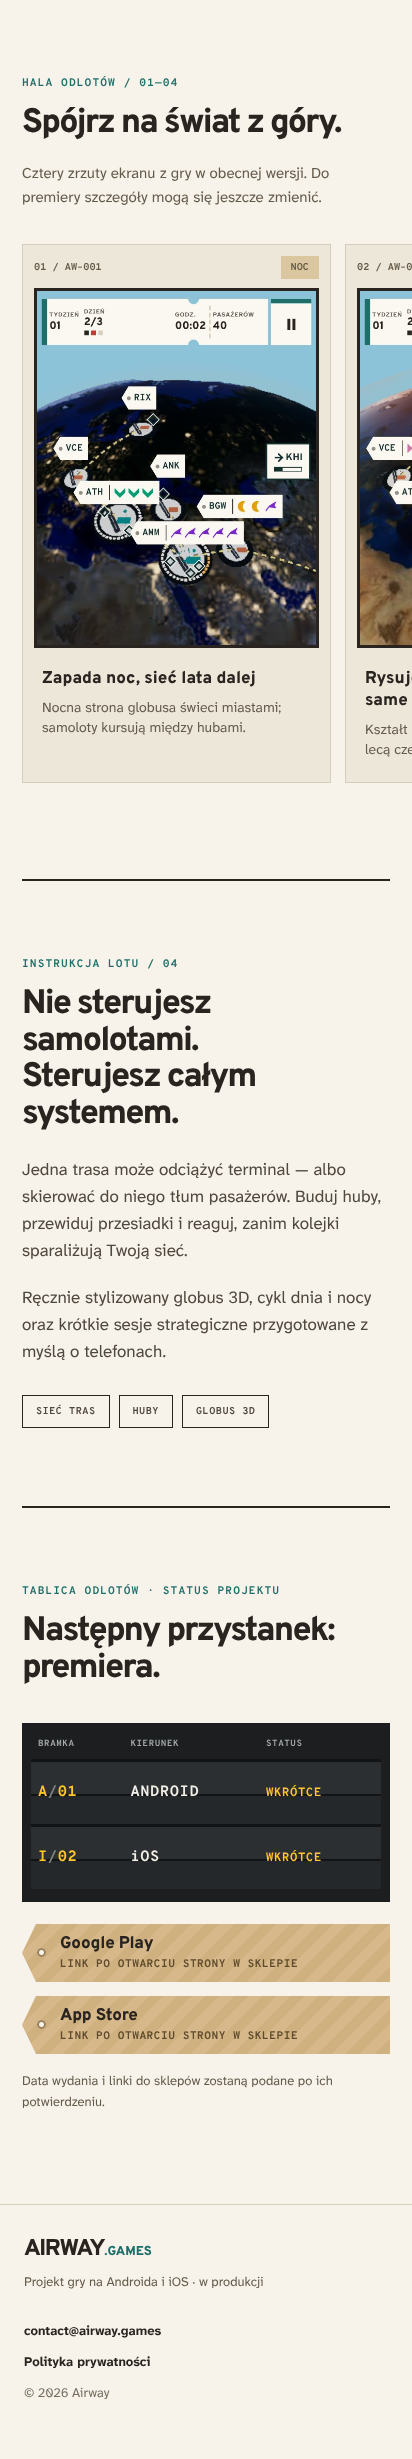
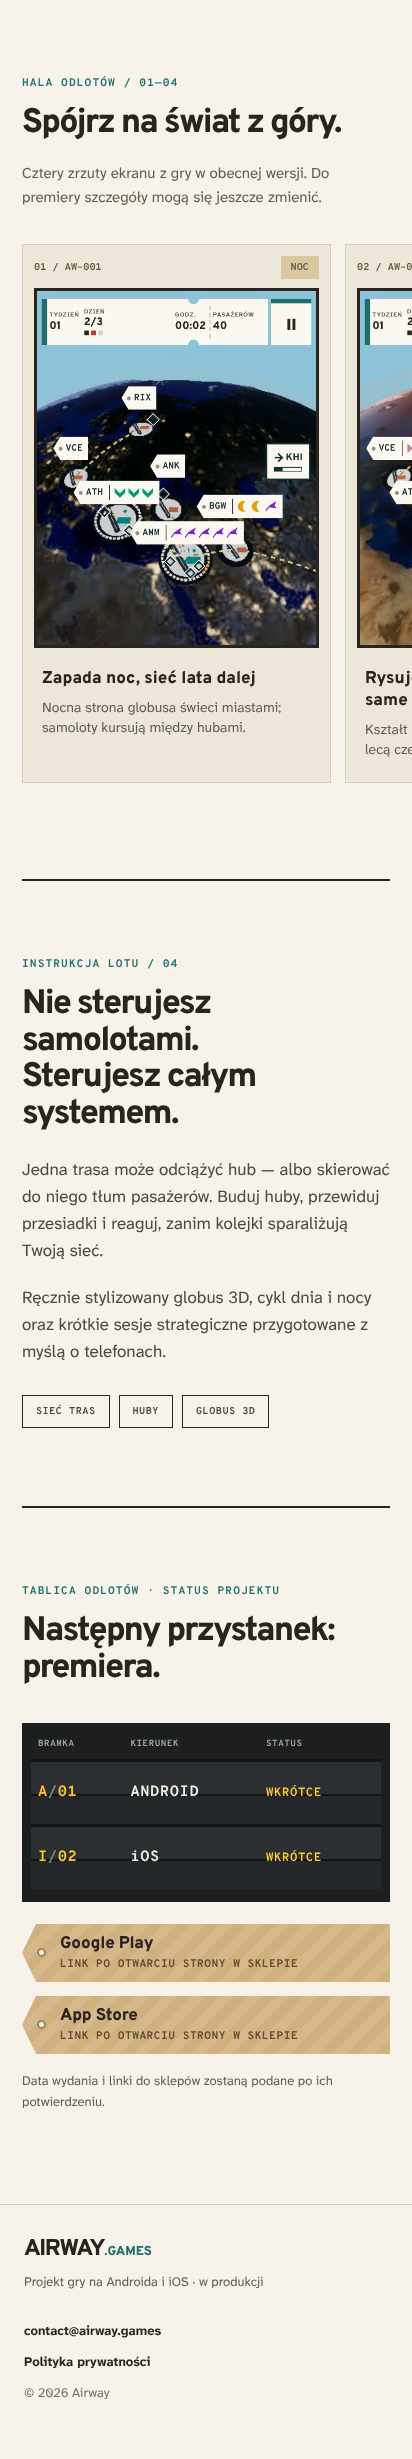
N11ad: finish site launch pack (R7k, D-218)
- package.json: site:assets script (site/make-assets.mjs); test:site checks it.
- site copy follows the D-195 glossary: about.p1 says "hub", not "terminal";
  test:site fails on "terminal" anywhere in site copy or pages.
- WIP comments renumbered D-214 -> D-218 (D-214 is reserved for N12aj).
- docs: SITE.md launch-pack section, ASSETS.md site shots/og-image/badges,
  TESTING.md (test:site, shots:site captured=6, build:site files=8,
  site:assets), DECISIONS.md D-218, backlog R7k [x] + log line.
- shots: docs/shots/29/site-preview-{p,l}.png refreshed.

Claude-Session: https://claude.ai/code/session_01Xqzfc4e5N2tWm4N2npoph3

Changed region(s): [[0.5243, 0.4636, 0.932, 0.5254], [0.1165, 0.4636, 0.4369, 0.5254], [0.0583, 0.4636, 0.0874, 0.5254]]

diff --git a/site/index.html b/site/index.html
@@ -74,7 +74,7 @@
       </div>
     </section>
 
-    <section id="about" class="about-section" aria-labelledby="about-title"><div class="about-label"><span class="section-overline" data-i18n="about.overline">INSTRUKCJA LOTU / 04</span><h2 id="about-title" data-i18n="about.title">Nie sterujesz samolotami.<br>Sterujesz całym systemem.</h2></div><div class="about-copy"><p data-i18n="about.p1">Jedna trasa może odciążyć terminal — albo skierować do niego tłum pasażerów. Buduj huby, przewiduj przesiadki i reaguj, zanim kolejki sparaliżują Twoją sieć.</p><p data-i18n="about.p2">Ręcznie stylizowany globus 3D, cykl dnia i nocy oraz krótkie sesje strategiczne przygotowane z myślą o telefonach.</p><div class="tag-row"><span data-i18n="about.tag1">SIEĆ TRAS</span><span data-i18n="about.tag2">HUBY</span><span data-i18n="about.tag3">GLOBUS 3D</span></div></div></section>
+    <section id="about" class="about-section" aria-labelledby="about-title"><div class="about-label"><span class="section-overline" data-i18n="about.overline">INSTRUKCJA LOTU / 04</span><h2 id="about-title" data-i18n="about.title">Nie sterujesz samolotami.<br>Sterujesz całym systemem.</h2></div><div class="about-copy"><p data-i18n="about.p1">Jedna trasa może odciążyć hub — albo skierować do niego tłum pasażerów. Buduj huby, przewiduj przesiadki i reaguj, zanim kolejki sparaliżują Twoją sieć.</p><p data-i18n="about.p2">Ręcznie stylizowany globus 3D, cykl dnia i nocy oraz krótkie sesje strategiczne przygotowane z myślą o telefonach.</p><div class="tag-row"><span data-i18n="about.tag1">SIEĆ TRAS</span><span data-i18n="about.tag2">HUBY</span><span data-i18n="about.tag3">GLOBUS 3D</span></div></div></section>
 
     <section class="departure-section" aria-labelledby="departure-title"><div class="departure-heading"><span class="section-overline" data-i18n="departures.overline">TABLICA ODLOTÓW · STATUS PROJEKTU</span><h2 id="departure-title" data-i18n="departures.title">Następny przystanek: premiera.</h2></div><div class="departure-board" role="table" aria-label="Platforms and release status" data-i18n-aria="departures.table"><div class="board-head" role="row"><span role="columnheader" data-i18n="departures.platform">PLATFORMA</span><span role="columnheader" data-i18n="departures.destination">KIERUNEK</span><span role="columnheader" data-i18n="departures.status">STATUS</span></div><div class="board-row" role="row"><span class="flap-letters" role="cell">A<span class="flap-divider">/</span>01</span><span role="cell">ANDROID</span><span role="cell" class="board-status" data-i18n="departures.soon">WKRÓTCE</span></div><div class="board-row" role="row"><span class="flap-letters" role="cell">I<span class="flap-divider">/</span>02</span><span role="cell">iOS</span><span role="cell" class="board-status" data-i18n="departures.soon">WKRÓTCE</span></div></div><div class="store-tags" role="group" aria-label="Sklepy z aplikacjami" data-i18n-aria="stores.label"><span class="store-tag" data-store="googlePlay" aria-disabled="true"><span class="store-tag-name">Google Play</span><span class="store-tag-state" data-i18n="stores.pending">Link po otwarciu strony w sklepie</span></span><span class="store-tag" data-store="appStore" aria-disabled="true"><span class="store-tag-name">App Store</span><span class="store-tag-state" data-i18n="stores.pending">Link po otwarciu strony w sklepie</span></span></div><p class="departure-note" data-i18n="departures.note">Data wydania i linki do sklepów zostaną podane po ich potwierdzeniu.</p></section>
   </main>

diff --git a/site/i18n.js b/site/i18n.js
@@ -20,7 +20,7 @@ export const translations = {
     'preview.description': "Cztery zrzuty ekranu z gry w obecnej wersji. Do premiery szczegóły mogą się jeszcze zmienić.",
     'about.overline': 'INSTRUKCJA LOTU / 04',
     'about.title': 'Nie sterujesz samolotami.\nSterujesz całym systemem.',
-    'about.p1': 'Jedna trasa może odciążyć terminal — albo skierować do niego tłum pasażerów. Buduj huby, przewiduj przesiadki i reaguj, zanim kolejki sparaliżują Twoją sieć.',
+    'about.p1': 'Jedna trasa może odciążyć hub — albo skierować do niego tłum pasażerów. Buduj huby, przewiduj przesiadki i reaguj, zanim kolejki sparaliżują Twoją sieć.',
     'about.p2': 'Ręcznie stylizowany globus 3D, cykl dnia i nocy oraz krótkie sesje strategiczne przygotowane z myślą o telefonach.',
     'about.tag1': 'SIEĆ TRAS', 'about.tag2': 'HUBY', 'about.tag3': 'GLOBUS 3D',
     'departures.overline': 'TABLICA ODLOTÓW · STATUS PROJEKTU',
@@ -96,7 +96,7 @@ export const translations = {
     'preview.description': "Four screenshots from the game as it is today. Details may still change before launch.",
     'about.overline': 'FLIGHT MANUAL / 04',
     'about.title': 'You do not fly the planes.\nYou manage the entire network.',
-    'about.p1': 'One new route can ease a terminal — or send a crowd of passengers its way. Build hubs, anticipate transfers and act before queues bring your network to a halt.',
+    'about.p1': 'One new route can ease a hub — or send a crowd of passengers its way. Build hubs, anticipate transfers and act before queues bring your network to a halt.',
     'about.p2': 'An illustrated 3D globe, a day-night cycle and short strategic sessions designed around mobile play.',
     'about.tag1': 'AIR ROUTES', 'about.tag2': 'TRANSFER HUBS', 'about.tag3': '3D GLOBE',
     'departures.overline': 'DEPARTURE BOARD · PROJECT STATUS',

diff --git a/site/styles.css b/site/styles.css
@@ -19,7 +19,7 @@
 @media(min-width:750px) and (max-height:480px){.hero{min-height:460px}.hero-copy{padding-top:30px}.hero-visual{min-height:460px}.eyebrow{margin-bottom:19px}.hero-headline{margin:23px 0 10px;font-size:37px}.hero-lead{font-size:14px;line-height:1.46}.hero-actions{margin-top:17px}.globe-stamp{bottom:39px}.hero-footnote{margin-top:9px}}
 @media(prefers-reduced-motion:reduce){html{scroll-behavior:auto}.shot-frame img{transition:none}}
 
-/* [night-11ad] R7k, D-214: store tags (luggage tags, disabled until site/launch.js has a store URL), 404 page. */
+/* [night-11ad] R7k, D-218: store tags (luggage tags, disabled until site/launch.js has a store URL), 404 page. */
 .store-tags{display:flex;flex-wrap:wrap;gap:14px;margin-top:22px}
 .store-tag{position:relative;display:flex;flex-direction:column;justify-content:center;gap:3px;min-height:58px;min-width:200px;padding:9px 18px 9px 38px;background:var(--kraft);color:var(--ink);text-decoration:none;clip-path:polygon(14px 0,100% 0,100% 100%,14px 100%,0 50%)}
 .store-tag::before{content:'';position:absolute;left:15px;top:50%;width:9px;height:9px;margin-top:-4.5px;border-radius:50%;background:var(--paper);box-shadow:inset 0 0 0 2px #9c7f55}

diff --git a/site/site.js b/site/site.js
@@ -34,7 +34,7 @@ for (const element of document.querySelectorAll('[data-nav-lang]')) {
 for (const element of document.querySelectorAll('[data-language]')) {
   element.setAttribute('aria-current', element.dataset.language === lang ? 'true' : 'false');
 }
-// [night-11ad] R7k, D-214: real screenshots in the page's language; store tags become links only once configured.
+// [night-11ad] R7k, D-218: real screenshots in the page's language; store tags become links only once configured.
 for (const image of document.querySelectorAll('img[data-shot]')) {
   image.src = `assets/shots/${lang}/${image.dataset.shot}.jpg`;
 }

diff --git a/site/launch.js b/site/launch.js
@@ -1,4 +1,4 @@
-// [night-11ad] R7k, D-214: launch settings of the static site, in one place. Every store link stays empty until the
+// [night-11ad] R7k, D-218: launch settings of the static site, in one place. Every store link stays empty until the
 // store page exists: an empty link shows a disabled "coming soon" tag, never a guess. Filling one requires the
 // official badge artwork for that store in assets/badges/ (Apple and Google brand rules; test:site enforces it).
 export const LAUNCH = {

diff --git a/docs/TESTING.md b/docs/TESTING.md
@@ -94,7 +94,7 @@ Times are measured in the integration container (8 vCPU, SwiftShader); “ci” 
 | `npm run test:install-identity` | fast | <1 s | A restored phone (no install marker) drops the leaderboard token and queue, keeps logbook/settings; marker failures never reset (D-92) | `… cases=6 passed=6 failed=0` |
 | `npm run test:ios-config` | fast | <1 s | iOS orientations, permissions, store keys (export compliance, bundle localizations = i18n catalogs, D-91), bundle ID, CocoaPods, audio session, safe-area tokens, PNG sizes (D-36) | `… checks=23 passed=23 failed=0` |
 | `npm run test:store-shots` | fast | ~3 s | PL/EN store copy limits, D-18 titles ([night-12ae] D-203 PL "sieć", no "siatka"), no competitor names; [task-36] the committed PNGs (30, [N12o] 60): size, not blank/white, manifest without dev text, glyphs only D-08, contact sheet; [task-40] manifest in D-63 store order (night, game, upgrade, failure, menu), `game` globe golden-pixel share ≥ 0.045, routes/airports/planes contrast ≥ 4.5:1 in `game` and `night`. `--validate --out=<dir>` checks a fresh run outside the repo; [N12n] D-117 Play feature graphic `docs/store/feature-graphic.png`: exactly 1024×500, 8-bit RGB without alpha, ≤ 15 MB, middle third not empty, dark unsaturated share ≤ 0.2, plus the PL/EN alt text (≤ 140 chars, no "image of", no price words) ; [N12o] D-123: six device profiles — the Apple iPhone 6.9" (1320×2868) and iPad 13" (2064×2752) profiles have an exact App Store Connect size, Play has a 9:16 and a 16:9 profile with a short side ≥ 1080 px and every Play size within 320–3840 px / 2:1, and every shot is RGB without alpha (fails on the old 30-shot set: "Manifest lists 30/60") | `… listings=2 fields=14 scenes=5 devices=6 shots=60 feature=1 passed=1 failed=0` |
-| `npm run test:site` | fast | <1 s | Landing page: local links, preview alt texts, PL/EN parity, privacy page, no trackers | `… assertions=N passed=N failed=0` |
+| `npm run test:site` | fast | <1 s | Landing page: local links, preview alt texts, PL/EN parity, privacy page, no trackers; launch pack (D-218): real 540×960 shots fresh vs `docs/store/shots/`, store links only on store hosts and with badges, og:image, canonical/hreflang, 404 page, glossary "hub" | `… assertions=N passed=N failed=0` |
 | `npm run test:format` | fast | 1 s | [task-37] D-61 number format: PL 999 / 2 500 / 11 000 / 1 234 567 (four-digit groups, same no-break space as Intl), EN unchanged, `t()` formats numeric params; [N7j] plural forms PL one/few/many (1, 2–4, 5–21, 22…) and EN, in real catalog strings; [N12s] R7e plural form from the number read with the locale's own separators (fake de/pt-BR/es/fr catalogs, 0 / 1 / 2 / 1 000 / 1 500 / 1 000 000), R7g fr-FR groups with U+00A0, never U+202F | `SUMMARY test:format seed=0xA1A1 passed=16 failed=0` |
 | `npm run test:glyphs` | fast | 1 s | [N12s] R7g, D-146: every face in `src/ui/fonts.css` (TTF `cmap` + borrowed `unicode-range` glyphs) has every code point of the PL/EN catalogs, city/region names, numbers formatted for pl/en/de/fr/es/pt-BR, and the PL/EN/DE/FR/ES/PT-BR letter set | `SUMMARY test:glyphs seed=0xA1A1 faces=5 passed=12 failed=0` |
 | `npm run test:haptics` | fast | <1 s | [night-10f] Fake native driver: route snap = selection tick, route commit / accepted aircraft drop / weekly pick = light impact, refused commands silent, network closed = one heavy impact, jam edge-triggered, the "Haptic feedback" switch silences all, a throwing driver never breaks the caller; [night-12r] D-137 (R6d): snaps tick inside `selectionStart`…`selectionEnd`, a snap outside a drag brackets itself, the switch turned off mid-drag still closes the selection, and under a model of `@capacitor/haptics` 8.0.2 (tick only while started) every snap vibrates (4/9 on the old driver) | `SUMMARY test:haptics seed=0xA1A1 passed=9 failed=0` |
@@ -177,7 +177,7 @@ Times are measured in the integration container (8 vCPU, SwiftShader); “ci” 
 | `npm run perf:scene` / `test:perf-scene` | ci | 2.5 min | SwiftShader scene: 40 cities, 100 planes, 40 routes, 120 wall s at 4×; JSON in `.perf/scene.json` (D-33) | `SUMMARY perf:scene … frames=N samples=N failed=0` |
 | `npm run perf:overlay` | manual | ~15 s | [night-10u] Real airport tag overlay (`src/ui/overlay.ts`) with 40 airports on the Vite dev server: mean ms per frame of `update()` + forced style/layout at 0, 5 and 40 passenger-tag changes per frame (orientation only, host CPU); fails when a tag rebuilt by reusing glyph nodes differs from a fresh build (fails 40/40 with the stale-child removal off) | `SUMMARY perf:overlay seed=0xA1A1 airports=40 idleMs=… fiveMs=… allMs=… mismatched=0 failed=0` |
 | `npm run shots` | ci | 1–2 min | All app/dev-page screenshots (see below) | `SUMMARY shots … expected=N captured=N failed=0` |
-| `npm run shots:site` | ci | 6 s | `build:site`, then landing page at 412×915 / 915×412 → `docs/shots/29/` | `SUMMARY shots:site … captured=2 failed=0` |
+| `npm run shots:site` | ci | 6 s | `build:site`, then landing page at 412×915 / 915×412, 404 page and screenshot/store section (412×915 / 1280×800) → `docs/shots/29/` | `SUMMARY shots:site … captured=6 failed=0` |
 | `npm run store:feature` | manual | ~40 s | [N12n] D-117 Play feature graphic from the real `game` scene (seed 0xA1A1, 1024×500 @2 → @1, HUD hidden, wordmark on the left third) → `docs/store/feature-graphic.png` (opaque RGB); same checks as `test:store-shots`. Not byte-identical between runs (SwiftShader) | `SUMMARY store:feature seed=0xA1A1 captured=1 passed=1 failed=0` |
 | `npm run store:shots` | ci | ~30 min | 5 autoplayed scenes × PL/EN × phone/foldable/tablet/[N12o] iphone/ipad/landscape → `docs/store/shots/{pl,en}/` + `manifest.json` + `docs/store/contact-sheet.png`; every PNG checked (incl. [task-40] sun angle, contrast and warmth recorded in the manifest), published only when all 60 pass | `… expected=60 captured=60 checked=60 passed=1 failed=0` |
 | `npm run test:ci` | — | 6–8 min | `test:fast`, `build` and every “ci” row | `SUMMARY test:ci … failed=0` |
@@ -185,7 +185,8 @@ Times are measured in the integration container (8 vCPU, SwiftShader); “ci” 
 | `npm run build:land` | — | <1 s | Regenerate `public/data/land-50m.json` (D-21) | `SUMMARY build-land … failed=0` |
 | `npm run build:puzzles` | — | <1 s | [ext-01] Regenerate `src/data/puzzles/levels.generated.ts` from the `NN.json` files (`--check` compares, `--dir` another folder); also run by `prebuild` and `predev` | `wrote levels.generated.ts: 30 levels (01–30)` |
 | `npm run puzzle:report` | — | ~3 s | [ext-01] R6f, D-161: Markdown difficulty table, one row per level from its reference run: time at 1×, goal, cities/offered routes, stock, reference actions (widebodies), mechanics tags, measured slot wait and curfew airports, reference result with stars, margin, ★★/★★★ thresholds; `-- --from 31` for one pack, `-- --json` for data | table + `30 levels, 128760 ticks = 3.58 h at 1x; margin min +17%, lost references: 0` |
-| `npm run build:site` | — | <1 s | Copy the framework-free landing page into ignored `site/dist/` | `SUMMARY build:site … files=6 assetFolders=2 failed=0` |
+| `npm run build:site` | — | <1 s | Copy the framework-free landing page into ignored `site/dist/` (+ `og-image.png` from the feature graphic) | `SUMMARY build:site … files=8 assetFolders=2 failed=0` |
+| `npm run site:assets` | — | 2 s | After `store:shots`: 540×960 JPEG copies of the phone store shots → `site/assets/shots/` + `sources.json` (Playwright from env) | `SUMMARY site:assets shots=8 size=540x960 failed=0` |
 | `npm run balance:report` | — | ~5 s | Real engine: 50 seeded sessions → `docs/balance/game-50.csv`, `game-summary.md` ([night-12ab] with p10/p25/median/p75/p90, loss weeks, losing airport hub/spoke/unserved, spare aircraft, cards offered vs picked, curfew/slot holds, transfer share) | `SUMMARY balance:report … mode=game seeds=50 … failed=0` |
 | `npm run balance:fixture` | — | 1 s | Stand-in: 50 synthetic runs → `docs/balance/fixture-50.csv` | `… mode=fixture seeds=50 … failed=0` |
 | `npm run audio:demo` | — | 1 s | Render a WAV demo of the hub audio scheduler (listening check, no assertion) | WAV path |

diff --git a/docs/SITE.md b/docs/SITE.md
@@ -6,7 +6,7 @@
 
 The standalone, framework-free site lives in `site/`. It is deliberately separate
 from the Capacitor game and does not import `src/` or require a backend. All assets
-are local: approved Diorama concept mockups, hand-drawn SVG, a procedural Canvas 2D
+are local: real game screenshots (from `docs/store/shots/`), hand-drawn SVG, a procedural Canvas 2D
 globe and the project's existing SIL OFL font binaries and license notices. There
 are no scripts, trackers, external resources, forms or runtime requests to third
 parties.
@@ -33,8 +33,9 @@ game's `src/i18n` catalog.
 ## Verification
 
 ```sh
-npm run test:site       # local paths, alt texts, translated keys, privacy links
-npm run build:site      # copy the static site into site/dist
+npm run test:site       # local paths, alt texts, translated keys, privacy links, launch pack
+npm run site:assets     # after store:shots: refresh site/assets/shots/ (Playwright)
+npm run build:site      # copy the static site into site/dist (+ og-image.png)
 npm run shots:site      # builds site/dist first; Playwright must be available
 npm run typecheck
 npm run test:fast
@@ -42,7 +43,9 @@ npm run build            # game build; does NOT deploy the site
 ```
 
 `npm run shots:site` renders `site/dist/index.html` at 412x915 and 915x412 at DPR
-1, writing `docs/shots/29/site-p.png` and `site-l.png`. Review both images for
+1, writing `docs/shots/29/site-p.png` and `site-l.png`, plus the 404 page
+(`site-404-p.png` 412x915, `site-404-l.png` 1280x800) and the screenshot/store
+section (`site-preview-p.png`, `site-preview-l.png`). Review every image for
 typography, visible globe, horizontal overflow and forbidden "template UI".
 Also check 673x841, 904x1000, English copy, keyboard navigation, reduced motion
 and Canvas fallback manually. Without Playwright, the screenshot task reports a
@@ -75,17 +78,17 @@ pauses. Device pixel ratio is capped at 2.
 
 ## Assets and content approval
 
-- The three vertical concept captures are copied **from this repository's own**
-  `mockups/diorama/png/{game-p,upgrade-p,menu-p}.png`. They are illustrative
-  concepts, *not* screenshots of a shipped game. Do not use them in an app store
-  without separately checking store rules and whether the shipped UI matches.
+- The four phone previews (night globe, live game, weekly upgrade, menu) are **real game screenshots**: 540×960 JPEG
+  copies in `site/assets/shots/{pl,en}/` of the store PNGs in `docs/store/shots/<lang>/<scene>-phone.png` (D-218).
+  `site.js` swaps in the visitor's language. The stage-0 concept mockups are no longer used anywhere on the site.
 - The website reuses `public/fonts/` copies of **Overpass**, **Overpass Mono**
   and **Atkinson Hyperlegible Next**. All have SIL OFL licenses copied alongside
   them in `site/fonts/`; see `docs/ASSETS.md`.
 - Confirm `contact@airway.games` exists and receives mail; until then it is a
   **proposed placeholder**.
-- The page calls the release "coming soon" without giving dates or pre-order
-  links; no store availability has been asserted.
+- The page calls the release "coming soon" without giving dates. The two store tags
+  (Google Play, App Store) stay disabled, labelled "link after the store page opens",
+  until `site/launch.js` has a URL on the store's own host; see "Launch pack" below.
 - The privacy document is explicitly a **draft**. Before publishing, confirm
   the data controller's legal identity and address, app telemetry / SDKs,
   offline behavior, retention of support messages and host request logs, cross-
@@ -95,9 +98,29 @@ pauses. Device pixel ratio is capped at 2.
 - The source has no analytics/cookies, but hosting logs and email delivery may
   still process personal data. Update the policy before enabling the public site.
 
+## Launch pack (N11ad / R7k, D-218)
+
+- **One config:** `site/launch.js` holds the public origin (`https://airway.games`), the two store links and the
+  screenshot list. Store links are empty today. `storeLink()` accepts only `https://play.google.com/…` and
+  `https://apps.apple.com/…`; anything else keeps the tag disabled. Filling a link also requires the official badge
+  artwork in `site/assets/badges/` (`google-play.svg`, `app-store.svg`, Apple and Google brand rules, entry in
+  `docs/ASSETS.md`); `test:site` fails on a link without its badge.
+- **Real screenshots:** after every `npm run store:shots`, run `npm run site:assets` (Playwright from the
+  environment). It downscales the four phone scenes per language to 540×960 JPEG (each under 250 kB) and records the
+  hash of each source PNG in `site/assets/shots/sources.json`; `test:site` fails when a store PNG changed and the copy
+  did not follow. The "failure" scene waits for a store:shots run with the N11t game-over wording.
+- **Social preview:** `og:image` is the Play feature graphic (`docs/store/feature-graphic.png`, D-117), copied by
+  `build:site` into `site/dist/assets/og-image.png` (not duplicated in git), with size, alt text and
+  `twitter:card=summary_large_image`.
+- **Canonical and hreflang:** `index.html` and `privacy.html` name the language-neutral URL as canonical plus
+  `hreflang` pl / en / x-default (`?lang=`); with an explicit `?lang=` the page points canonical and `og:url` to itself.
+- **404:** `site/404.html` in the site style, `noindex`, root-absolute URLs (hosts serve it at any depth); copied by
+  `build:site`. Cloudflare Pages and GitHub Pages pick it up by name.
+- **Still open:** terms page (R7b) and publisher block (R7c) are not written yet, so the footer has no links to them;
+  no newsletter (Q-70 → A).
+
 ## Scope
 
 This task adds no gameplay logic, Android/iOS changes, cookies, mailing list,
-backend, analytics, CI deployment or store listings. The menu task (14) is not
-present in `dev`, so the landing page uses approved Stage 0 Diorama mockups
-rather than integrating with unmerged production screens.
+backend, analytics, CI deployment or store listings. Since N11ad the previews
+are real game screenshots (see "Launch pack").

diff --git a/docs/NIGHT-BACKLOG.md b/docs/NIGHT-BACKLOG.md
@@ -1219,7 +1219,7 @@ Evidence: `docs/RESEARCH.md` "R6 — …".
       (sim `code` untouched, D-107); a one-off script fetches Wikidata labels (CC0) for de/fr/es/pt-BR into a
       reviewed JSON (pt-BR "Nova York", not "Nova Iorque"); `docs/ASSETS.md` entry; `test:city-data` checks every
       enabled language has every name. **Area:** `src/data/**`, `scripts/`, `docs/ASSETS.md`.
-- [ ] R7k **Site launch pack** — store badges (official Apple/Google artwork, brand rules, ASSETS entry) with
+- [x] R7k → N11ad (store tags disabled until a link + official badge exist; footer links wait for R7b/R7c) **Site launch pack** — store badges (official Apple/Google artwork, brand rules, ASSETS entry) with
       pre-registration/pre-order links from one config, hidden while empty; real shots from `docs/store/shots/`
       instead of stage-0 concepts; `og:image` from the feature graphic (D-117); `hreflang` + `canonical`; a `404.html`
       in the site style; footer links to terms (R7b) and publisher block (R7c). No newsletter (Q-70 → A).
@@ -1414,3 +1414,4 @@ Evidence: `docs/RESEARCH.md` "R6 — …".
 - 2026-11-04 · N12ah translator export/import (R7i, D-211, D-212) · night/12ah-i18n-export · test:i18n-exchange 12/12 (new module; absent before), export de/fr 449 rows (de one|other, fr one|other|many), JSON + CSV round-trip, import rejects bad params/plurals/budget/stale EN; test:i18n 1/1, test:doc-ids 8/8 (173 decisions, max D-212), test:fast 81/81 (236.9 s), build ok on origin/dev 87a146c; no browser suite (no UI change)
 - 2026-11-04 · N11ac length budgets + harsh pseudo-locale at 320 px (R7h, D-213) · night/11ac-i18n-length-budgets · origin/dev 794e9a7 merged first (#197 i18n export reads the budgets): test:i18n budgets=63 passed (228 failures with the old pseudo-locale; crashes without limits.ts), test:e2e:pseudo-320 16/16 in 35 s (6/16 on the old code), test:e2e:pseudo-locale 27/27 (26/27 before the NEW-stub min-width), test:i18n-exchange 12/12 (11/12 before its stand-in fix), test:fast 81/81 (356.7 s), build ok, test:overlay-layout 36/36 after the stub change; shots .e2e/pseudo-320/ (16, inspected, not committed)
 - 2026-11-04 · N12ai wave-1 city/region names from Wikidata (R7j, D-217) + owner Q-80 → A (D-215), Q-79 → A + PL store "hub" (D-216) · night/12ai-city-names · 165/165 cities resolved (enwiki article, all within 40 km), 173 items × de/fr/es/pt-br/pt/mul labels, 165 cities + 8 regions × 4 languages, 19 reviewed overrides, offline rebuild identical; test:city-data 9/9 (4 new; the module and data file are absent on the old code), test:doc-ids 8/8 (177 decisions, max D-217), test:fast 81/81, build ok after merging origin/dev 9dbfc27; no browser suite (no UI change)
+- 2026-11-04 · N11ad site launch pack (R7k, D-218) · night/11ad-site-launch-pack · origin/dev 794e9a7 merged first: test:site 274/274 (272 before; the new glossary check fails on the old `about.p1` "terminal" copy, 273/274; the `site:assets` script check fails without the package.json entry), real 540×960 PL/EN shots via `npm run site:assets` (8, byte-identical rerun), store tags disabled, og:image, canonical/hreflang, 404; test:doc-ids 8/8 (178 decisions, max D-218), test:fast 81/81 (202.1 s), build ok; shots:site 6/6 (docs/shots/29/, inspected). Not done: footer links to terms/publisher (R7b/R7c not written); "failure" scene waits for a store:shots run with the N11t wording

diff --git a/docs/ASSETS.md b/docs/ASSETS.md
@@ -98,7 +98,7 @@ The production three.js world will replace this demo illustration after tasks 07
 No external images or fonts were used. Sources match task 24 PR #12 as of this commit. After merging task 24, generate from one shared SVG source to avoid drift.
 <!-- [task-29] Existing local licensed assets reused by the landing page. -->
 ## Site assets (task 29)
-`site/assets/` reuses byte-identical Stage 0 Diorama mockups `game-p.png`, `upgrade-p.png`, `menu-p.png` from `mockups/diorama/png/`, labeled as concept previews. The five `site/fonts/*.ttf` files and three neighboring OFL notices are byte-identical to the existing files in `public/fonts/`. The new SVG favicon, illustrated fallback globe and Canvas 2D globe are project-authored procedural artwork. No external image or font source is loaded by the deployed site.
+`site/assets/shots/{pl,en}/{night,game,upgrade,menu}.jpg` (N11ad, D-218) are project-made 540×960 JPEG downscales of our own store screenshots `docs/store/shots/<lang>/<scene>-phone.png`, produced by `npm run site:assets` (`site/make-assets.mjs`; source hashes in `site/assets/shots/sources.json`). The stage-0 concept copies `game-p.png`, `upgrade-p.png`, `menu-p.png` were removed from `site/assets/`. The social preview `og-image.png` is a build-time copy of our own `docs/store/feature-graphic.png` (D-117) into `site/dist/` only. No store badge artwork is committed yet: when a store link is set, the official Google Play / App Store badge goes to `site/assets/badges/` with its own entry here (brand rules of Google and Apple). The five `site/fonts/*.ttf` files and three neighboring OFL notices are byte-identical to the existing files in `public/fonts/`. The new SVG favicon, illustrated fallback globe and Canvas 2D globe are project-authored procedural artwork. No external image or font source is loaded by the deployed site.
 
 ## Globe look experiment (ext/03, DEV only — not in the build)
 Textures under `dev/globe-look/assets/`, baked by `python3 -I dev/globe-look/bake.py <downloads>` (Pillow + NumPy) from

diff --git a/docs/DECISIONS.md b/docs/DECISIONS.md
@@ -1733,3 +1733,18 @@ ships (D-212), when `localName` gains the planned codes. Kept as Wikidata has th
 "Kiew/Kiev", Bombay/Calcutta/Madras in French and Spanish, Spanish "Bangalore". Guard: `test:city-data` (every city and
 region has every planned name, the file equals the offline rebuild, one item per city, overrides carry a reason).
 **Status: in force.**
+
+## D-218 — Site launch pack: one launch config, disabled store tags, real 540×960 shots, og:image, hreflang, 404 (2026-11-04, Claude, night N11ad)
+R7k. `site/launch.js` is the single place for the public origin and the two store links. Both links stay empty until
+the store pages exist; an empty link shows a disabled "link after the store page opens" tag (luggage-tag style), never
+a guessed URL. A link counts only on the store's own host (`play.google.com`, `apps.apple.com`) and only together
+with the official badge artwork in `site/assets/badges/` (Google/Apple brand rules, `docs/ASSETS.md` entry), so no
+badge files are committed today. The stage-0 concept mockups leave the site: the four previews (night, game, upgrade,
+menu) are real store screenshots, downscaled by `npm run site:assets` (`site/make-assets.mjs`, Chromium canvas, no
+image library) to 540×960 JPEG under 250 kB per language; `sources.json` stores the source PNG hashes so a stale copy
+fails `test:site`. The "failure" scene waits for a store:shots run with the N11t game-over wording. `og:image` is the
+Play feature graphic (D-117), copied at build time instead of a second file in git; canonical points to the
+language-neutral URL with `hreflang` pl/en/x-default; `404.html` is `noindex` with root-absolute URLs. Site copy follows
+the D-195 glossary ("hub", not "terminal", in `about.p1`). Footer links to terms (R7b) and the publisher block (R7c)
+wait for those pages; no newsletter (Q-70 → A). Guard: `test:site` (shots size/freshness, store host + badge rule,
+og:image, canonical/hreflang, 404, glossary, `site:assets` script). **Status: in force.**
